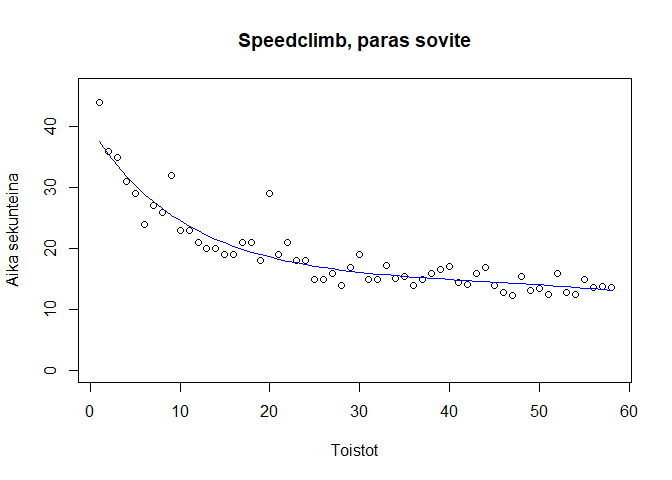
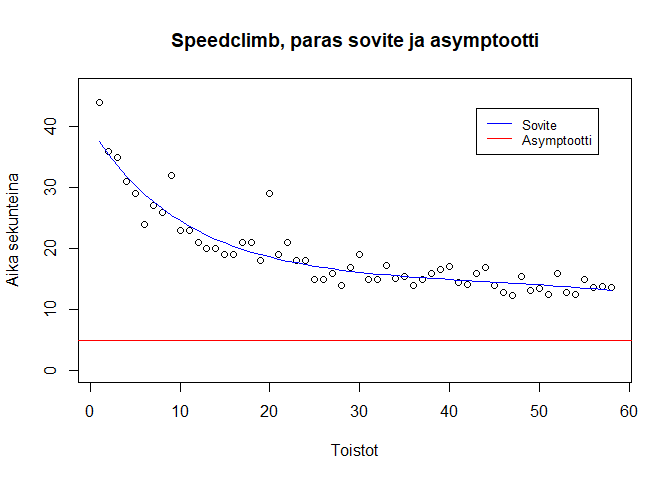
Add files via upload

Changed region(s): [[0.25, 0.0625, 0.8125, 0.125], [0.7812, 0.25, 0.9062, 0.3125]]

diff --git a/Speed_climbing/speedclimb_malli.md b/Speed_climbing/speedclimb_malli.md
@@ -61,6 +61,8 @@ legend(1, 2.5, legend=c("1. asteen", "2. asteen", "3. asteen"),
 
 ## Mallinvalinta
 
+Vertaillaan sovitettuja malleja toisiinsa.
+
 ``` r
 anova(model1, model2)
 ```
@@ -103,7 +105,7 @@ anova(model2, model3)
     ## ---
     ## Signif. codes:  0 '***' 0.001 '**' 0.01 '*' 0.05 '.' 0.1 ' ' 1
 
-Edetään siis mallilla 3, eli $\log(y-5) = a+b_1x+b_2x^2+b_3x^3$.
+Edetään siis mallilla 3, eli $\log(y-5) = \log(a)+b_1x+b_2x^2+b_3x^3$.
 
 ## Sovitteet alkuperäiseen kuvaajaan
 
@@ -171,8 +173,10 @@ legend(46, 43, legend=c("1. asteen", "2. asteen", "3. asteen"),
 Ja parhaan mallin plottaus vielä yksinään.
 
 ``` r
-plot(x,y, ylim = c(0,46), xlab = "Toistot", ylab = "Aika sekunteina", main = "Speedclimb, paras sovite")
+plot(x,y, ylim = c(0,46), xlab = "Toistot", ylab = "Aika sekunteina", main = "Speedclimb, paras sovite ja asymptootti")
 lines(x,(y_hat_3)+5, col = "blue")
+abline(h=5, col = "red")
+legend(43, 43, legend = c("Sovite", "Asymptootti"), col = c("blue", "red"), lty = c(1,1), cex = 0.8)
 ```
 
 ![](speedclimb_malli_files/figure-gfm/unnamed-chunk-14-1.png)<!-- -->
@@ -201,6 +205,12 @@ summary(model3)
     ## Residual standard error: 0.1544 on 54 degrees of freedom
     ## Multiple R-squared:  0.8601, Adjusted R-squared:  0.8523 
     ## F-statistic: 110.6 on 3 and 54 DF,  p-value: < 2.2e-16
+
+``` r
+print(c("exp(a):",exp(model3[["coefficients"]][["(Intercept)"]])))
+```
+
+    ## [1] "exp(a):"          "34.9365519164864"
 
 ``` r
 par(mfrow =c(2,2))
